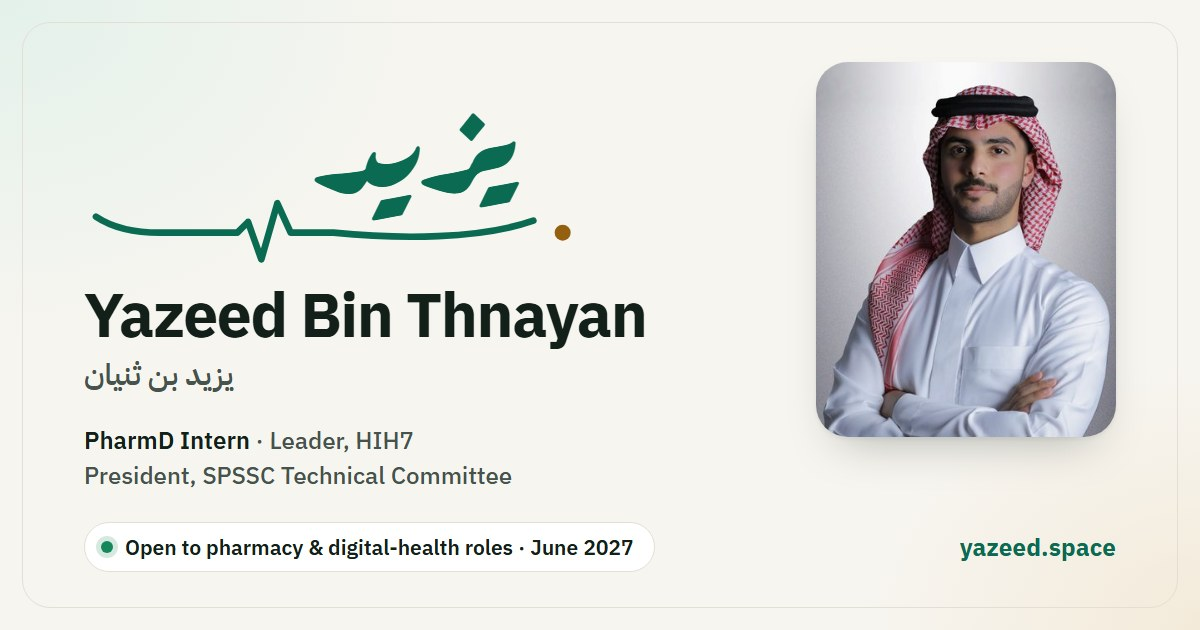
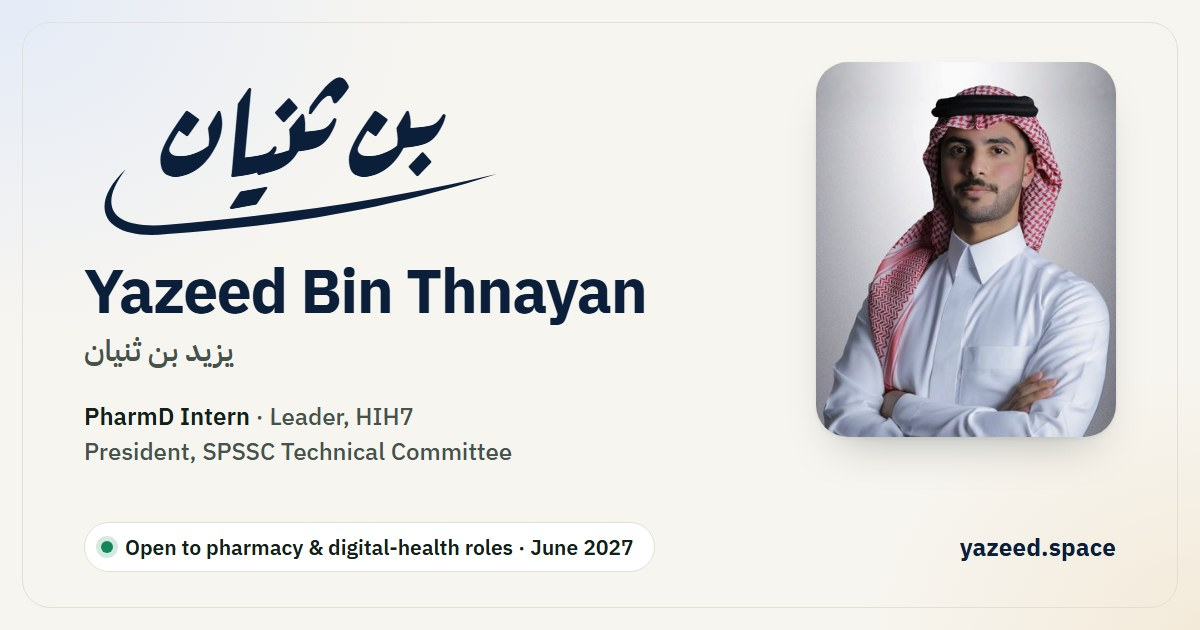
Replace the signature with «بن ثنيان» in navy
The mark is now «بن ثنيان» handwritten in Aref Ruqaa, slanted, with a
stroke that leaves the final ن and sweeps back under the name. Navy
instead of green, cream in the dark theme.

- Header: new inline SVG; font subset to ب ن ث ي ا.
- Share card (og.jpg, 80 KB): new signature, navy name and URL, a cool
  blue wash in place of the green one.
- Icons: the signature in white on navy (32, 192, 180 full-bleed).

Changed region(s): [[0.0617, 0.1206, 0.555, 0.7841], [0.8017, 0.8444, 0.925, 0.9048], [0.4625, 0.3619, 0.4933, 0.3921]]

diff --git a/index.html b/index.html
@@ -37,7 +37,7 @@
 <link rel="preconnect" href="https://fonts.googleapis.com">
 <link rel="preconnect" href="https://fonts.gstatic.com" crossorigin>
 <link rel="stylesheet" href="https://fonts.googleapis.com/css2?family=IBM+Plex+Sans+Arabic:wght@400;500;600;700&family=IBM+Plex+Sans:wght@400;500;600;700&display=swap">
-<link rel="stylesheet" href="https://fonts.googleapis.com/css2?family=Aref+Ruqaa:wght@700&text=%D9%8A%D8%B2%D8%AF&display=block">
+<link rel="stylesheet" href="https://fonts.googleapis.com/css2?family=Aref+Ruqaa:wght@700&text=%D8%A8%D9%86%D8%AB%D9%8A%D8%A7&display=block">
 <link rel="stylesheet" href="css/style.css">
 
 <!-- Theme and language resolved before first paint: no flash, no layout jump. -->
@@ -70,10 +70,9 @@
 <header class="site-header" id="site-header">
   <div class="wrap header__inner">
     <a class="mark" href="#top">
-      <svg class="signature" viewBox="0 0 420 190" aria-hidden="true" focusable="false">
-        <text x="340" y="126" font-size="112" text-anchor="end">يزيد</text>
-        <path d="M352 146 C 312 160, 252 160, 202 155 L 170 155 L 160 133 L 148 175 L 138 147 L 130 155 L 72 155 C 52 155, 36 151, 24 143"/>
-        <circle cx="374" cy="155" r="7"/>
+      <svg class="signature" viewBox="80 0 372 172" aria-hidden="true" focusable="false">
+        <path d="M123 105 C 97 139, 113 157, 159 153 C 269 143, 350 131, 444 109 C 350 139, 269 153, 159 161 C 103 167, 89 137, 123 105 Z"/>
+        <g transform="skewX(-9)"><text x="410" y="112" font-size="112" text-anchor="end">بن ثنيان</text></g>
       </svg>
       <span class="mark__name"><span lang="en">Yazeed Bin Thnayan</span><span lang="ar">يزيد بن ثنيان</span></span>
     </a>

diff --git a/css/style.css b/css/style.css
@@ -217,22 +217,16 @@ a { color: inherit; }
   white-space: nowrap;
 }
 
-/* The signature: «يزيد» in Ruqaa, underlined by a stroke that turns into a
-   heartbeat. The same mark appears on the share card and the site icon. */
-.signature { width: 108px; height: auto; flex: none; margin-block: -6px; color: var(--accent); overflow: visible; }
-.signature text { fill: currentColor; font-family: "Aref Ruqaa", var(--font-ar); font-weight: 700; }
-.signature path { fill: none; stroke: currentColor; stroke-width: 7; stroke-linecap: round; stroke-linejoin: round; }
-.signature circle { fill: var(--highlight); }
+/* The signature: «بن ثنيان» handwritten in Ruqaa, slanted, with a stroke
+   that leaves the final ن and sweeps back under the name. Navy, like the
+   share card and the site icon; cream in the dark theme. */
+.signature { width: 118px; height: auto; flex: none; margin-block: -8px; fill: #0b1f3a; overflow: visible; }
+.signature text { font-family: "Aref Ruqaa", var(--font-ar); font-weight: 700; }
+[data-theme="dark"] .signature { fill: var(--text); }
 
 @media (max-width: 640px) {
   .mark__name { display: none; }
-  .signature { width: 96px; }
-}
-
-/* The stroke draws itself once on load. */
-@media (prefers-reduced-motion: no-preference) {
-  .signature path { stroke-dasharray: 520; stroke-dashoffset: 520; animation: sign 1.4s var(--ease) 0.3s forwards; }
-  @keyframes sign { to { stroke-dashoffset: 0; } }
+  .signature { width: 104px; }
 }
 
 .nav {

diff --git a/README.md b/README.md
@@ -75,9 +75,10 @@ WhatsApp drops to a small thumbnail. Regenerate it after any change to the name,
 
 ## Signature
 
-The mark is «يزيد» in Aref Ruqaa with an underline that turns into a heartbeat. It appears in the
-header (inline SVG, the stroke draws itself once), on the share card, and, reduced to the initial ي
-on its pulse, as the site icon (`favicon-32.png`, `icon-192.png`, `apple-touch-icon.png`).
+The mark is «بن ثنيان» handwritten in Aref Ruqaa, slanted, with a stroke that leaves the final ن
+and sweeps back under the name. It is navy (cream in the dark theme) and appears in the header
+(inline SVG; the font is subset to the five letters it uses), on the share card, and in white on
+navy as the site icon (`favicon-32.png`, `icon-192.png`, `apple-touch-icon.png`).
 
 `og:url`, `og:image` and `twitter:image` are absolute and point at https://www.yazeed.space/.
 They must stay absolute: crawlers will not resolve a relative path, and the card silently falls back
